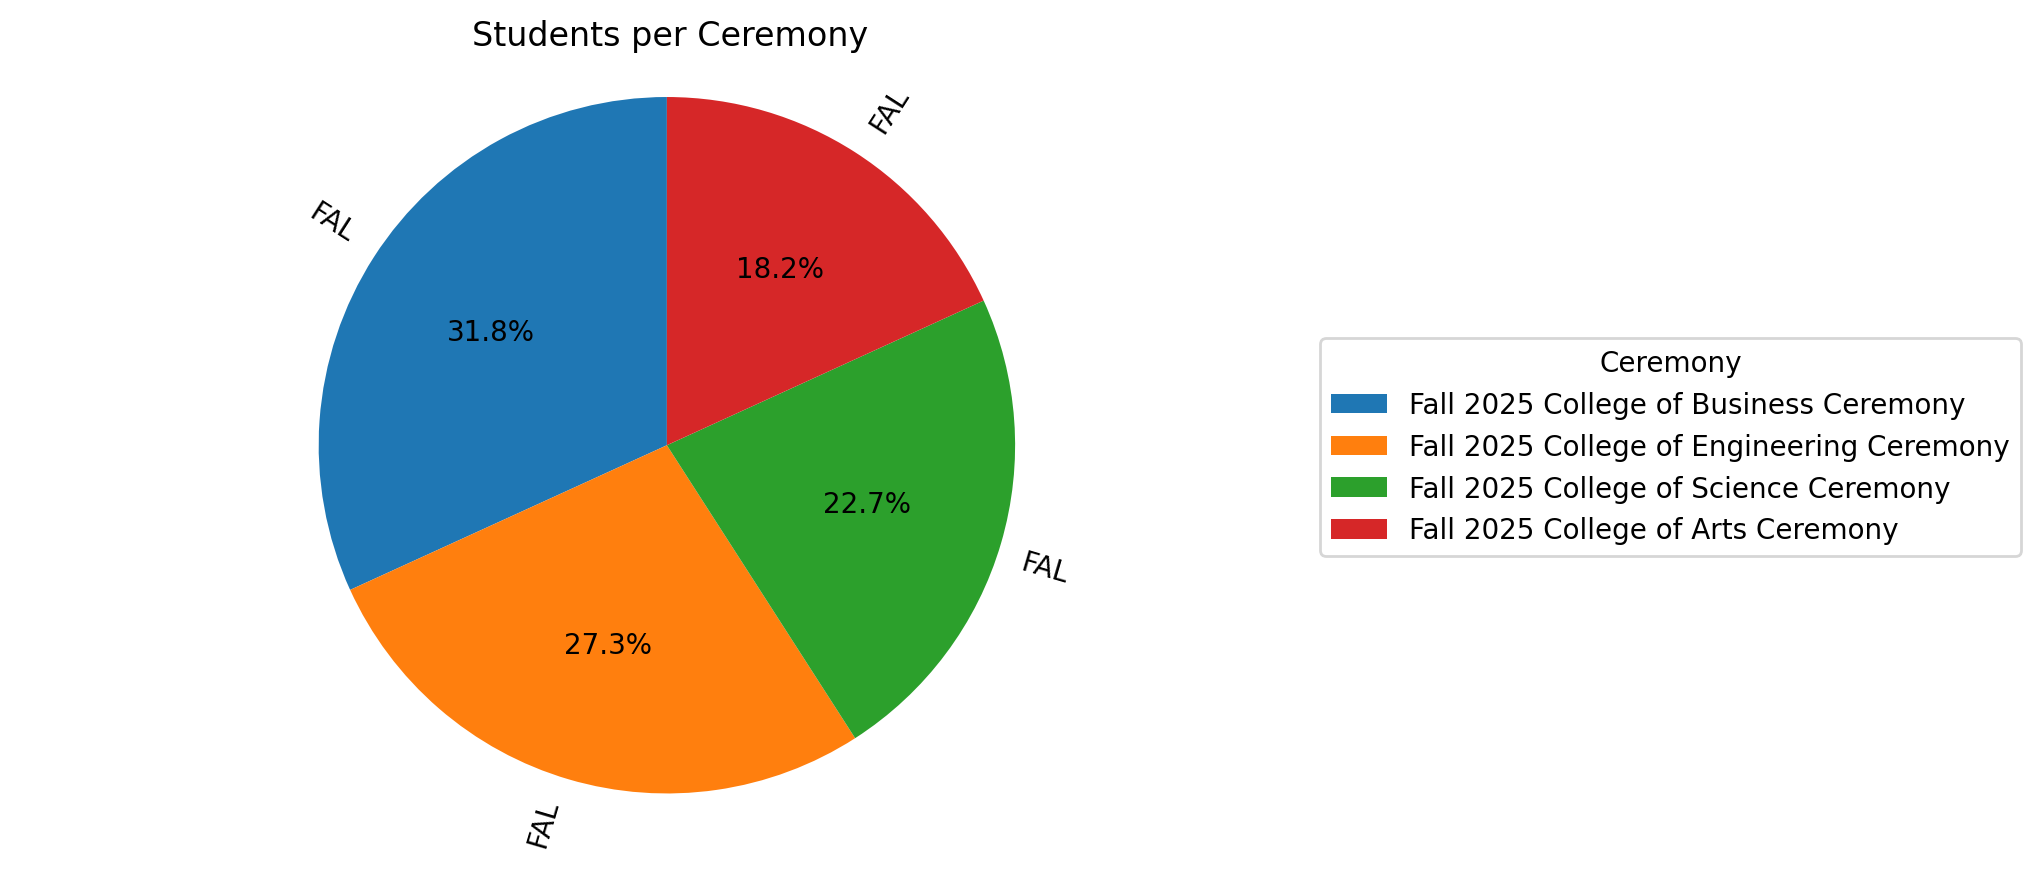
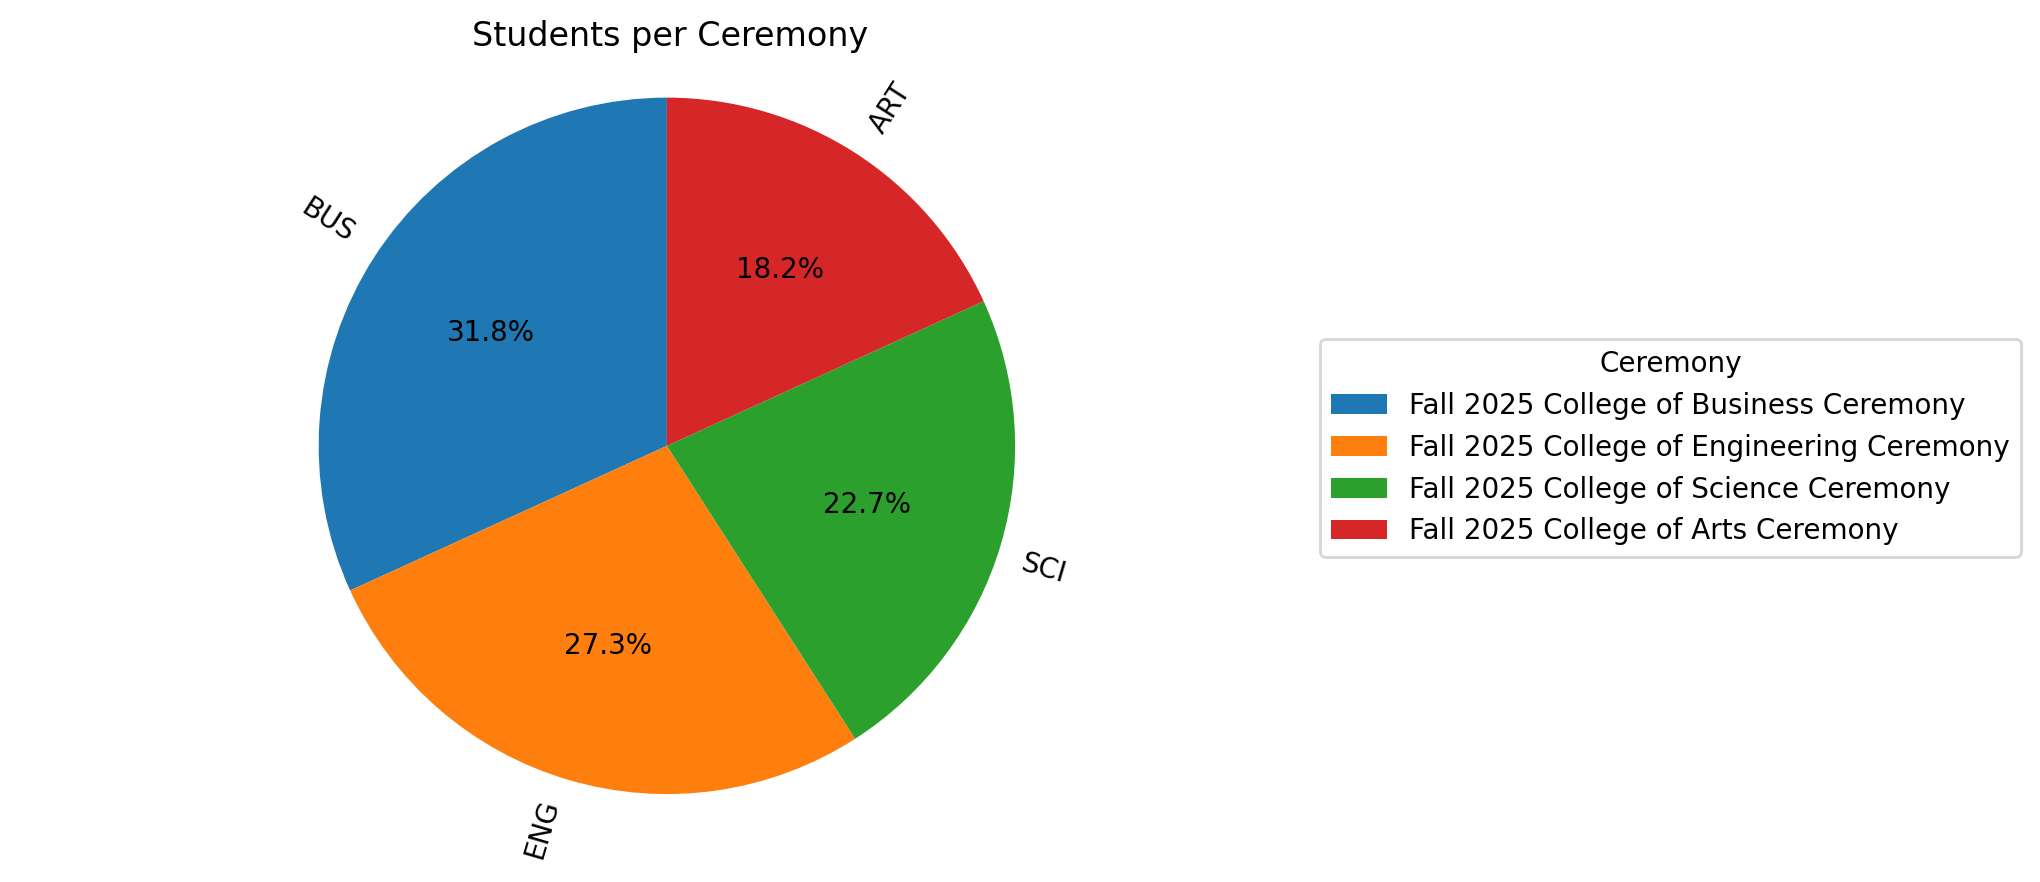
stats analysis 2

diff --git a/reports.py b/reports.py
@@ -171,13 +171,38 @@ def get_students_per_ceremony():
     return labels, values, cleaned_rows
 
 
-# ---------- Chart helper ----------
+# ---------- Ceremony type mapping ----------
+
+def map_ceremony_to_type(ceremony_name: str) -> str:
+    """
+    Map full ceremony name to a broad type.
+    Adjust the matching rules to your actual ceremony names.
+    """
+    if not ceremony_name:
+        return "OTHER"
+
+    name_lower = ceremony_name.lower()
+
+    if "business" in name_lower:
+        return "BUS"
+    if "engineer" in name_lower:
+        return "ENG"
+    if "science" in name_lower:
+        return "SCI"
+    if "art" in name_lower:
+        return "ART"
+
+    return "OTHER"
+
+
+# ---------- Generic pie chart helper ----------
 
 def make_pie_chart(labels, values, title, legend_title, filename):
     if not labels or not values:
         print(f"No data found for chart: {title}")
         return
 
+    # Default 3-letter slice labels from the full labels
     slice_labels = [str(lbl)[:3].upper() for lbl in labels]
 
     fig, ax = plt.subplots(figsize=(10, 5))
@@ -191,6 +216,7 @@ def make_pie_chart(labels, values, title, legend_title, filename):
         labeldistance=1.05
     )
 
+    # Make room for legend on the right, enlarge visible pie area
     plt.subplots_adjust(left=0.05, right=0.7)
 
     ax.legend(
@@ -275,20 +301,49 @@ def main():
         filename="biometric_opt_in.png",
     )
 
-    # 5) Students per ceremony
+    # 5) Students per ceremony — use BUS/ENG/SCI/ART on slices
     cer_labels, cer_values, cer_rows = get_students_per_ceremony()
     save_csv(
         headers=["ceremony_name", "num_students"],
         rows=cer_rows,
         filename="students_per_ceremony.csv",
     )
-    make_pie_chart(
-        cer_labels,
-        cer_values,
-        title="Students per Ceremony",
-        legend_title="Ceremony",
-        filename="students_per_ceremony.png",
-    )
+
+    if cer_labels and cer_values:
+        cer_type_labels = [map_ceremony_to_type(name) for name in cer_labels]
+
+        fig, ax = plt.subplots(figsize=(10, 5))
+
+        wedges, text_labels, autotexts = ax.pie(
+            cer_values,
+            labels=cer_type_labels,  # BUS / ENG / SCI / ART / OTHER
+            startangle=90,
+            autopct="%1.1f%%",
+            rotatelabels=True,
+            labeldistance=1.05
+        )
+
+        plt.subplots_adjust(left=0.05, right=0.7)
+
+        # Legend shows full ceremony names
+        ax.legend(
+            wedges,
+            cer_labels,
+            title="Ceremony",
+            loc="center left",
+            bbox_to_anchor=(1.0, 0.5),
+            borderaxespad=0.0,
+        )
+
+        ax.set_title("Students per Ceremony")
+        ax.axis("equal")
+
+        img_path = os.path.join(REPORTS_DIR, "students_per_ceremony.png")
+        fig.savefig(img_path, dpi=200, bbox_inches="tight")
+        plt.close(fig)
+        print(f"Saved chart: {img_path}")
+    else:
+        print("No data found for chart: Students per Ceremony")
 
 
 if __name__ == "__main__":
